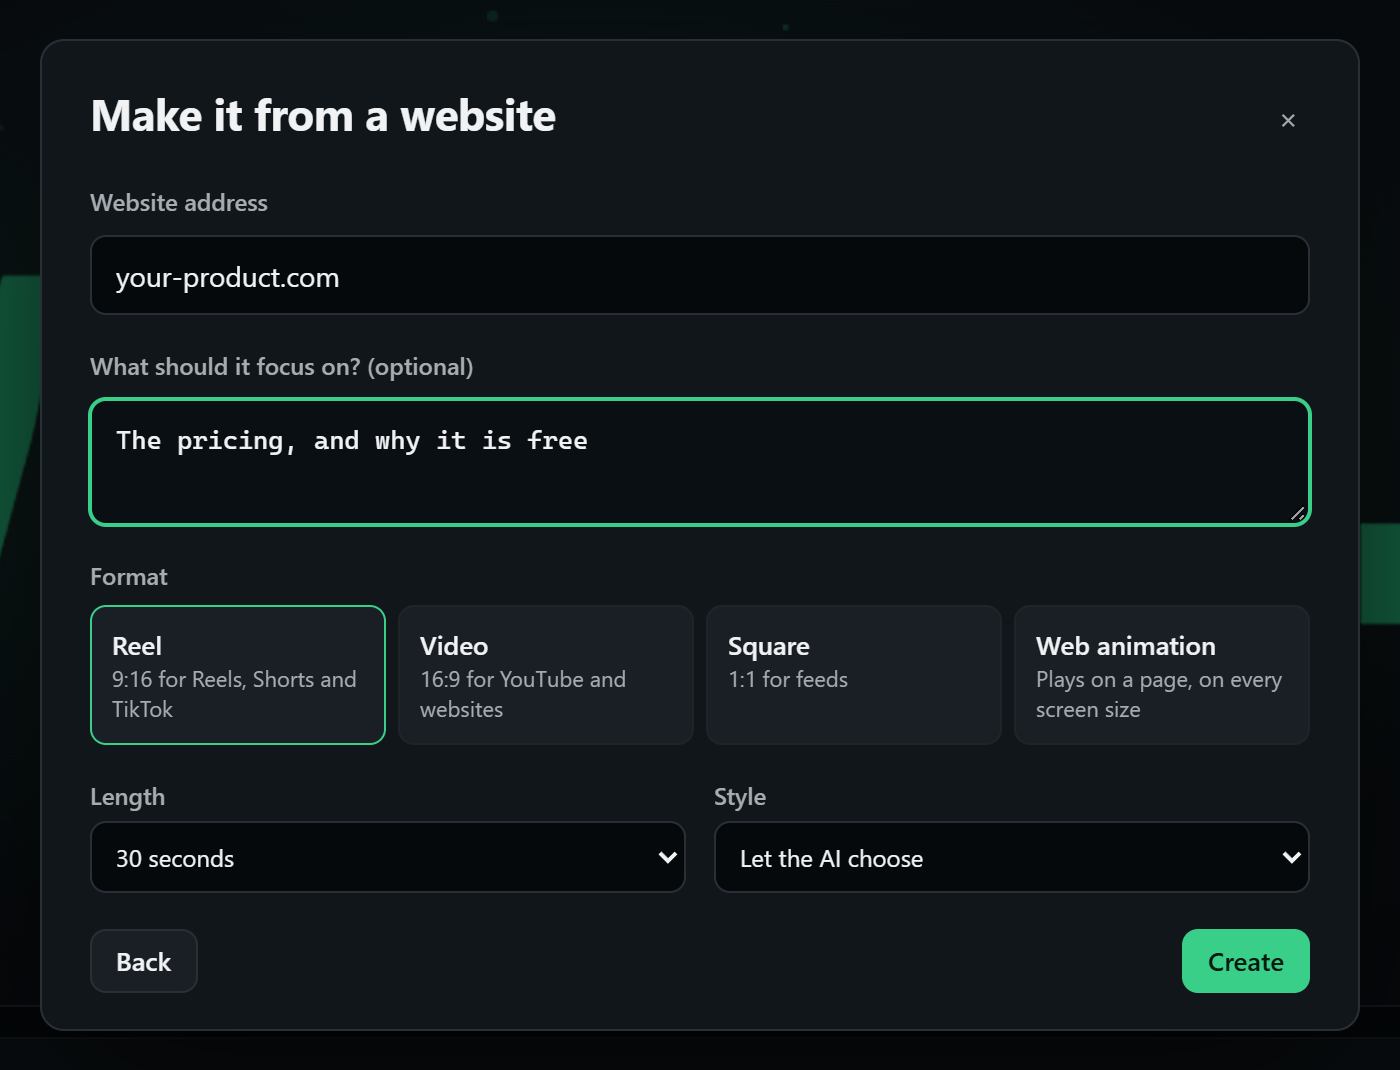
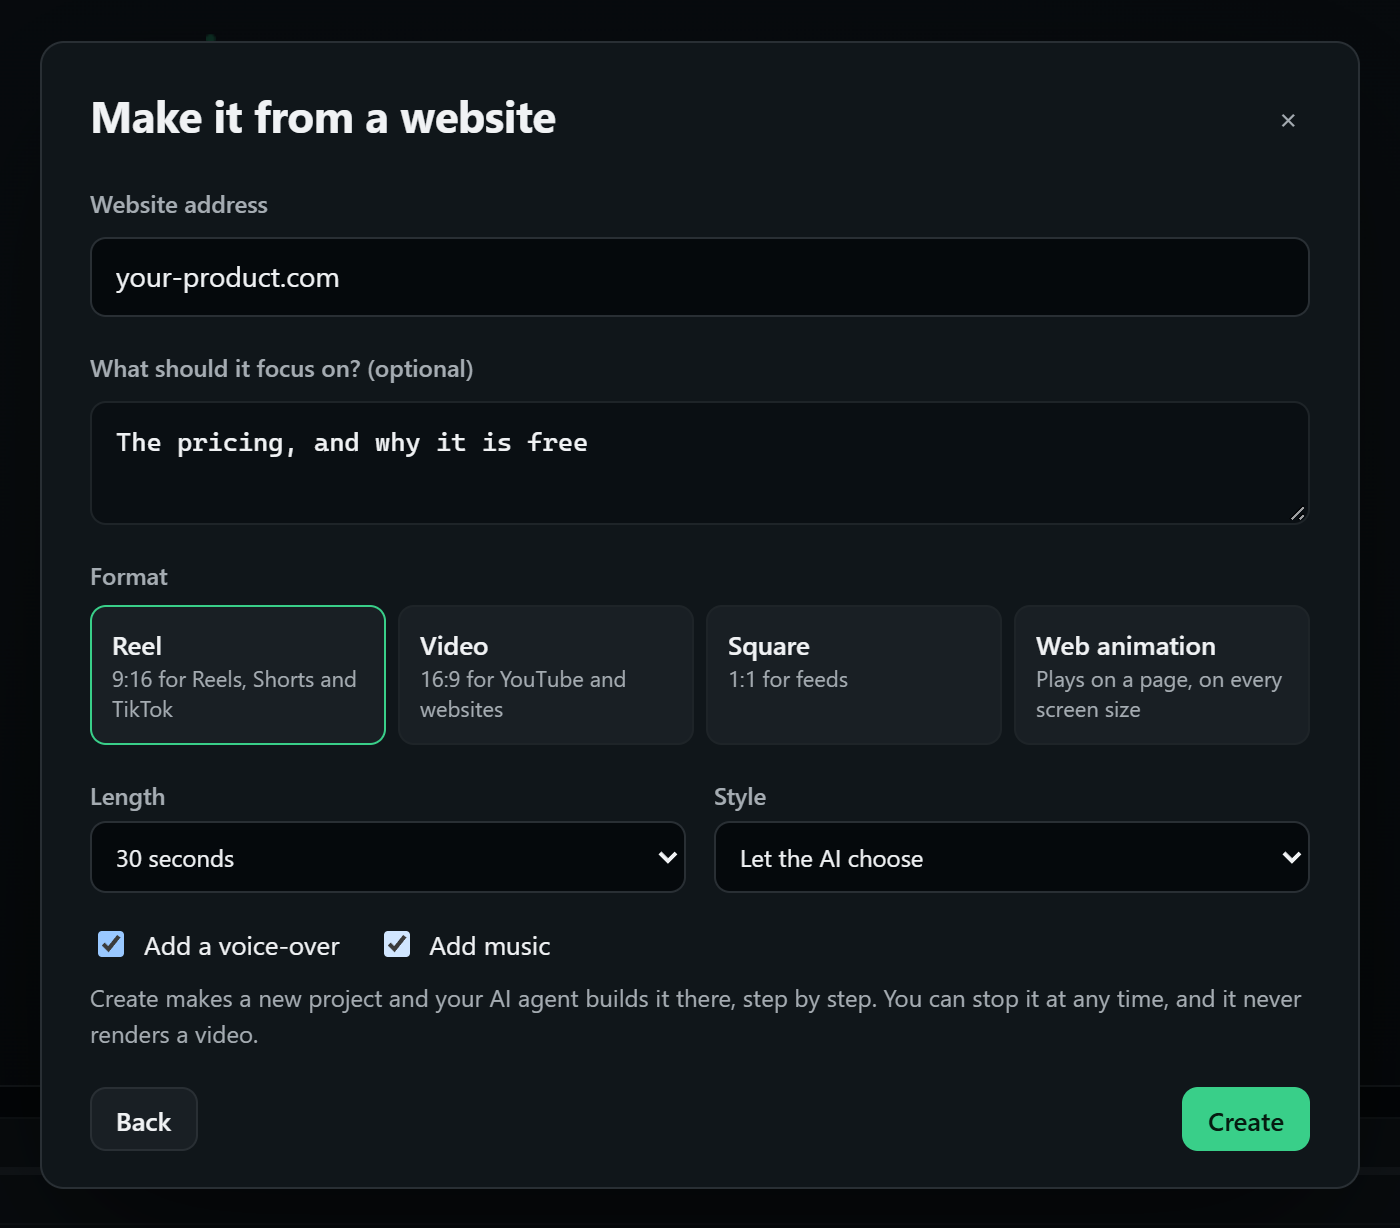
Kinetic Scenes: Create runs the project agent; the Kit Assistant works on projects

diff --git a/docs/extensions/site-converter/kit-assistant.md b/docs/extensions/site-converter/kit-assistant.md
@@ -8,7 +8,8 @@ title: The Kit Assistant (chat)
 The **Kit Assistant** is the chat in the AI Dev Kit dashboard, at
 **`http://localhost:4600/#chat`**. It answers questions about your conversions and about Unyson+
 itself, using the kit's own tools: it can open a web page and read it, pull up a capture's conversion
-report, search the kit's documentation, and — with your confirmation — start a capture.
+report, search the kit's documentation, and — with your confirmation — start a capture or have the
+Kinetic Scenes agent work on a video.
 
 It runs on whichever AI backend the kit is set to, so the conversation stays on your machine (a local
 model through Ollama) or goes to your own Claude subscription or API key. Nothing is sent anywhere
@@ -39,6 +40,34 @@ claiming it has started something.
 
 The conversation is kept in `capture-out/chat-history.json` (the last 200 messages) so it survives
 restarting the service. **New chat** clears it.
+
+## Work on your Kinetic Scenes projects
+
+Ask for a video, or a change to one, the way you would ask a person: "in my Free CRM reel, make the hook punchier". The
+assistant finds the project and shows what it will do. Nothing happens until you press **Confirm**.
+
+<img src="/img/extensions/site-converter/kit-assistant-work-on-project.png" alt="A proposal to work on a project, listing the request and what the agent may do, with Confirm and Cancel buttons" width="531" />
+
+**One Confirm covers the whole request.** The Kinetic Scenes agent then does the work in that project's folder: it edits
+the scene, looks at its frames and checks what it made. You see its steps live under the message.
+
+- **Stop** ends it at any time. What it already saved stays.
+- **Open in Kinetic Scenes** opens the result when it finishes.
+- **Put it back** restores the scene to how it was before that run. The last ten versions are kept in the project's
+  `snapshots/` folder.
+- The work carries on if you close the tab, and the result is waiting in the chat when you come back. If the kit itself
+  is closed, the run stops.
+
+The agent can only change that one project's folder. It can't run commands or go on the web, and it never renders a
+video, touches a site or pushes to GitHub.
+
+For a new video, ask for one by name, or by website: "make a new project called Spring Sale from example.com, with a
+voice-over and music". A new project can't be put back, because there is nothing to go back to; delete its folder if you
+don't want it.
+
+This needs Claude Code on your computer, and it uses your Claude subscription, whichever AI the chat itself runs on. A
+small change takes about a minute; a whole video takes about 10 to 20. A small local model may not ask for the agent on
+its own, so `/work` is the reliable way to reach it.
 
 ## Attaching an image
 
@@ -85,6 +114,8 @@ that might otherwise need persuading to pick the right tool.
 | `/doc <path>` | Read one kit doc in full |
 | `/capture <url>` | Capture a site — **asks you to Confirm first** |
 | `/studio <request>` | Hand a scene to Kinetic Scenes — **asks you to Confirm** |
+| `/projects` | Your Kinetic Scenes projects |
+| `/work <project>: <request>` | Have the agent work on a project — **asks you to Confirm** |
 | `/clear` | Clear the conversation |
 | `/help` | List the commands |
 
@@ -101,8 +132,8 @@ is always sent to the model, since looking at a picture is not something a singl
 
 ## Limits
 
-- **Seven tools, nothing else.** It cannot edit a file, run a command, change your WordPress site or
-  touch git.
+- **Nine tools, nothing else.** On its own it cannot edit a file, run a command, change your WordPress site or
+  touch git. The Kinetic Scenes agent can edit one project's folder, and only after your Confirm.
 - **The last 12 turns** of the conversation are sent to the model; older ones scroll out of its view
   (they stay in the transcript).
 - **Six tool rounds** per message. After that it answers with what it has gathered.

diff --git a/kinetic-scenes/start-screen.md b/kinetic-scenes/start-screen.md
@@ -43,10 +43,31 @@ These two take one more step before anything is made.
    animation** (plays on a page, on every screen size).
 3. **Choose a length** of 15 to 60 seconds, or let the AI choose. A web animation has no length to set here.
 4. **Choose a style**, or let the AI choose. Your choice also becomes AI assist's style.
-5. **Click Create.** AI assist opens and takes over: with its usual settings on, it shows
-   [three directions, then a plan](./ai.md) for you to approve before building.
+5. **Choose sound.** With an AI agent available, tick **Add a voice-over** and **Add music** for a video.
+6. **Click Create.**
 
 Nothing is rendered. You preview the scene in the Studio and export it when you're ready.
+
+### With your AI agent
+
+If the AI Dev Kit is running and Claude Code is on your computer, **Create makes a new project and your AI agent builds
+the whole video in it.** AI assist opens and shows each step as it happens: reading the website, recording the voice,
+writing the scene, looking at its frames and fixing what it finds. The Studio plays each saved version as it arrives.
+
+- **Clicking Create is your one approval.** The agent then makes as many edits as it needs, inside that project's folder
+  only. It can't run commands, go on the web or touch anything else.
+- **It never renders**, and never touches a site or GitHub.
+- **Stop** ends it at any time. What it already saved stays, and **Undo** goes back.
+- **A whole video takes about 10 to 20 minutes.** A test reel of 15 seconds, with a voice-over and music, took about 12.
+  The work carries on if you close the tab.
+- **It uses your Claude subscription.**
+
+A voice-over needs a voice installed in **Tools › Add-ons**. Music is composed for the scene and added at 25% volume.
+
+### Without an agent
+
+AI assist builds the scene here in the browser instead. With its usual settings on, it shows
+[three directions, then a plan](./ai.md) for you to approve first.
 
 ## Picking up where you left off
 
@@ -82,5 +103,7 @@ appears in the corner and continues from **Change the words**.
 
 - The format, length and style step is only for **Describe it** and **A website**. A long video and a video you like
   ask for their own settings in their own dialogs, and the other options start straight away.
-- Voice-over and music aren't part of this step yet. Add them afterwards with [Sound](./sound.md).
-- With a project open, **Create** still builds a new scene in the browser, not in a project folder.
+- **Add a voice-over** and **Add music** need the agent, and only appear for a video. Without it, add sound afterwards
+  with [Sound](./sound.md).
+- The agent skips the three directions and the plan: it builds from what you asked for. Change the result by asking
+  in AI assist.

diff --git a/kinetic-scenes/ai-agents.md b/kinetic-scenes/ai-agents.md
@@ -84,7 +84,7 @@ The tools the agent gets: `project_list`, `project_save` and `project_notes` (th
 `scene_check`, `scene_inspect`, `scene_stills` (it looks at frames), `scene_timeline` (frames, sound wave, every spoken
 word at its time and the words on screen in one picture, with pauses inside a phrase marked), `scene_render`, and `audio_beats`,
 `audio_transcribe`, `audio_separate`, `video_check` (a finished video checked: every voice line heard, black frames,
-loudness, clipping; renders run it on their own), `voice_best_take` (the best of several takes of a line) and
+loudness, clipping; renders run it on their own), `voice_over` (a script spoken into one file, with its word times), `voice_best_take` (the best of several takes of a line) and
 `footage_cleanup` (recorded speech without false starts, um / uh and long pauses). Agents that run commands also have the kit's command line
 (`studio-cli record`, `screencast`, `music`, `project`), which records the screen and builds the scene around the
 recording.
